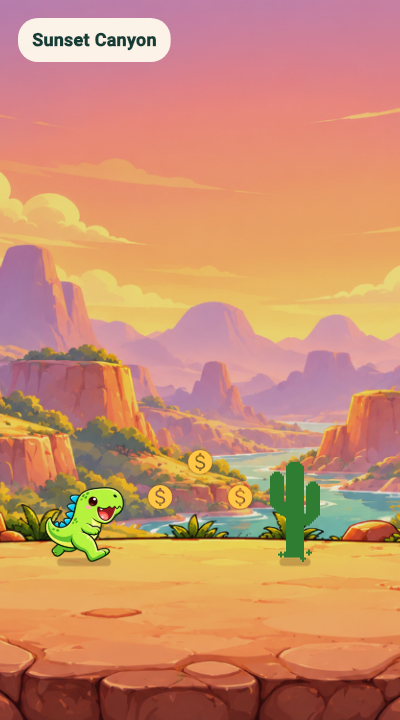
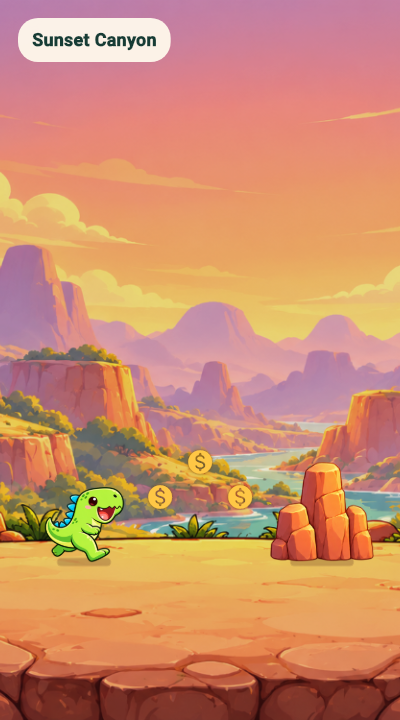
test: verify biome obstacle skins, sizing and phone update

Changed region(s): [[0.66, 0.6417, 0.93, 0.7944]]

diff --git a/test/biome_obstacle_test.dart b/test/biome_obstacle_test.dart
@@ -1,0 +1,168 @@
+import 'dart:io';
+import 'dart:ui' as ui;
+import 'package:flutter/material.dart';
+import 'package:flutter/rendering.dart';
+import 'package:flutter/services.dart';
+import 'package:flutter_test/flutter_test.dart';
+import 'package:flutter_dinosaur/cactus.dart';
+import 'package:flutter_dinosaur/game_engine.dart';
+import 'package:flutter_dinosaur/game_scene.dart';
+import 'package:flutter_dinosaur/sprite_atlas.dart';
+import 'package:flutter_dinosaur/world_scenery.dart';
+import 'support/fixed_variant_random.dart';
+
+void main() {
+  testWidgets('queued ground obstacles change skin with the current world', (
+    tester,
+  ) async {
+    final game = GameEngine()..start(Difficulty.easy);
+    final obstacle = Cactus(
+      worldLocation: const Offset(20, 0),
+      random: FixedVariantRandom(0),
+    );
+    final size = obstacle.getRect(GameEngine.viewport, 0).size;
+    game.obstacles.add(obstacle);
+    for (var terrain = 0; terrain < 3; terrain++) {
+      game.distance = terrain * 500.0;
+      await tester.pumpWidget(
+        MaterialApp(home: GameScene(game: game, effects: false)),
+      );
+      await tester.pumpAndSettle();
+      final skin = tester.widget<GroundObstacleAvatar>(
+        find.byType(GroundObstacleAvatar),
+      );
+      expect(skin.terrain, terrain);
+      expect(obstacle.getRect(GameEngine.viewport, game.distance).size, size);
+      expect(
+        obstacle.getRect(GameEngine.viewport, game.distance).bottom,
+        GameEngine.floorY,
+      );
+      if (terrain > 0) {
+        final atlas = tester
+            .widgetList<SpriteAtlas>(find.byType(SpriteAtlas))
+            .firstWhere((sprite) => sprite.asset.contains('obstacles-'));
+        expect(atlas.asset, GroundObstacleAvatar.assets[terrain - 1]);
+        expect(atlas.stretch, true);
+      }
+    }
+    expect(tester.takeException(), isNull);
+    await tester.pumpWidget(const SizedBox());
+    game.dispose();
+  });
+
+  testWidgets('all six sizes render for cacti, rocks and ice slabs', (
+    tester,
+  ) async {
+    tester.view.physicalSize = const Size(800, 450);
+    tester.view.devicePixelRatio = 1;
+    addTearDown(tester.view.resetPhysicalSize);
+    addTearDown(tester.view.resetDevicePixelRatio);
+    final boundary = GlobalKey();
+    await tester.runAsync(() async {
+      final font = FontLoader('ObstaclePreviewRoboto')
+        ..addFont(rootBundle.load('assets/fonts/roboto-bold.ttf'));
+      await font.load();
+    });
+    await tester.pumpWidget(
+      MaterialApp(
+        theme: ThemeData(fontFamily: 'ObstaclePreviewRoboto'),
+        home: Scaffold(
+          body: RepaintBoundary(
+            key: boundary,
+            child: Column(
+              children: [
+                for (var terrain = 0; terrain < 3; terrain++)
+                  SizedBox(
+                    height: 150,
+                    child: ColoredBox(
+                      color: [
+                        const Color(0xFFE9F1DB),
+                        const Color(0xFFFFE5CE),
+                        const Color(0xFFE3F4FF),
+                      ][terrain],
+                      child: Row(
+                        children: [
+                          SizedBox(
+                            width: 80,
+                            child: Padding(
+                              padding: const EdgeInsets.all(8),
+                              child: Text(
+                                worldNames[terrain],
+                                style: const TextStyle(
+                                  fontSize: 13,
+                                  fontWeight: FontWeight.bold,
+                                ),
+                              ),
+                            ),
+                          ),
+                          for (var variant = 0; variant < 6; variant++)
+                            Expanded(
+                              child: Column(
+                                mainAxisAlignment: MainAxisAlignment.end,
+                                children: [
+                                  SizedBox(
+                                    height: 110,
+                                    child: Align(
+                                      alignment: Alignment.bottomCenter,
+                                      child: SizedBox(
+                                        width: cacti[variant].imageWidth
+                                            .toDouble(),
+                                        height: cacti[variant].imageHeight
+                                            .toDouble(),
+                                        child: GroundObstacleAvatar(
+                                          terrain: terrain,
+                                          variant: variant,
+                                        ),
+                                      ),
+                                    ),
+                                  ),
+                                  const SizedBox(height: 6),
+                                  Text(
+                                    '${cacti[variant].imageWidth} × ${cacti[variant].imageHeight}',
+                                    style: const TextStyle(fontSize: 12),
+                                  ),
+                                  const SizedBox(height: 10),
+                                ],
+                              ),
+                            ),
+                        ],
+                      ),
+                    ),
+                  ),
+              ],
+            ),
+          ),
+        ),
+      ),
+    );
+    await tester.runAsync(() async {
+      final context = tester.element(find.byType(GroundObstacleAvatar).first);
+      await Future.wait([
+        for (final asset in GroundObstacleAvatar.assets)
+          precacheImage(
+            ResizeImage.resizeIfNeeded(1536, null, AssetImage(asset)),
+            context,
+          ),
+        for (final sprite in cacti)
+          precacheImage(AssetImage(sprite.imagePath), context),
+      ]);
+    });
+    await tester.pumpAndSettle();
+    expect(find.byType(GroundObstacleAvatar), findsNWidgets(18));
+    expect(tester.takeException(), isNull);
+    if (const bool.fromEnvironment('CAPTURE_OBSTACLES')) {
+      await tester.runAsync(() async {
+        final render =
+            boundary.currentContext!.findRenderObject()!
+                as RenderRepaintBoundary;
+        final image = await render.toImage();
+        final data = await image.toByteData(format: ui.ImageByteFormat.png);
+        await File(
+          'screenshots/biome-obstacles.png',
+        ).writeAsBytes(data!.buffer.asUint8List());
+        image.dispose();
+      });
+    }
+    await tester.pumpWidget(const SizedBox());
+  });
+}

diff --git a/test/world_ground_test.dart b/test/world_ground_test.dart
@@ -1,5 +1,4 @@
 import 'dart:io';
-import 'dart:math';
 import 'dart:ui' as ui;
 import 'package:flutter/material.dart';
 import 'package:flutter/rendering.dart';
@@ -10,6 +9,7 @@ import 'package:flutter_dinosaur/dino_avatar.dart';
 import 'package:flutter_dinosaur/game_engine.dart';
 import 'package:flutter_dinosaur/game_scene.dart';
 import 'package:flutter_dinosaur/world_scenery.dart';
+import 'support/fixed_variant_random.dart';
 
 void main() {
   for (var terrain = 0; terrain < 3; terrain++) {
@@ -24,7 +24,7 @@ void main() {
         game.distance = terrain * 500 + 30;
         final cactus = Cactus(
           worldLocation: Offset(game.distance + 27, 0),
-          random: Random(3),
+          random: FixedVariantRandom(0),
         );
         game.obstacles.add(cactus);
         for (var i = 0; i < 3; i++) {
@@ -72,6 +72,15 @@ void main() {
               context,
             ),
             precacheImage(AssetImage(cactus.sprite.imagePath), context),
+            if (terrain > 0)
+              precacheImage(
+                ResizeImage.resizeIfNeeded(
+                  1536,
+                  null,
+                  AssetImage(GroundObstacleAvatar.assets[terrain - 1]),
+                ),
+                context,
+              ),
           ]);
         });
         await tester.pumpAndSettle();

diff --git a/test/support/fixed_variant_random.dart b/test/support/fixed_variant_random.dart
@@ -1,0 +1,13 @@
+import 'dart:math';
+
+/// Deterministic obstacle choice for visual fixtures; never used by the app.
+class FixedVariantRandom implements Random {
+  FixedVariantRandom(this.variant);
+  final int variant;
+  @override
+  int nextInt(int max) => variant % max;
+  @override
+  double nextDouble() => .5;
+  @override
+  bool nextBool() => true;
+}

diff --git a/docs/VALIDATION.md b/docs/VALIDATION.md
@@ -1,5 +1,32 @@
 # Validation record
 
+## November 1, 2026 — world-matched rock and ice obstacles (1.4.2+10)
+
+- Jungle keeps its cacti; canyon uses warm sandstone blocks; crystal valley
+  uses upright blue ice slabs, including three-piece groups of differing heights.
+  The six original obstacle dimensions, forgiving hitboxes, jump/spawn timing and
+  rewards are unchanged. Already-queued obstacles use the current world's skin.
+- Two original generated atlases were inspected, with measured source bounds
+  fitted into the existing rectangles. Later-world images are prepared at run
+  start. Source prompts, references, selection and runtime paths are recorded
+  in HOME_EXPERIENCE.md. Old scrolling ground overlays remain removed.
+- Analysis and formatting clean; all 65 tests passed. Two new checks cover queued
+  skin changes and all six sizes across all three worlds. Existing dinosaur/
+  bird atlas, layout, lifecycle, economy and persistence checks pass with the
+  shared renderer extension. Five targeted fixture/render checks also passed.
+- Actual Flutter captures of all 18 obstacle appearances and all three playfields
+  were inspected: `biome-obstacles.png` and `ground-*.png` under screenshots.
+  Captures use deterministic test actors/coins and real fonts/icons; they do not
+  alter production progress or add a debug mode.
+- Android debug build, native compatibility and official 16 KB zipalign passed.
+  ZIP inspection confirms both obstacle atlases are bundled and the three legacy
+  ground-strip images are absent. Update installation on the connected phone
+  succeeded; package metadata confirms 1.4.2 / versionCode 10, minimum API 24 and
+  target API 36. Installation did not clear app data. Physical frame pacing and
+  long-session play remain manual checks.
+- Feature commit: `165f70c`. README references resolve. Gradle was stopped;
+  Android Studio/emulator were not used.
+
 ## November 1, 2026 — painted ground surfaces (1.4.1+9)
 
 - Removed the three scrolling ground overlays from rendering and bundling. The
